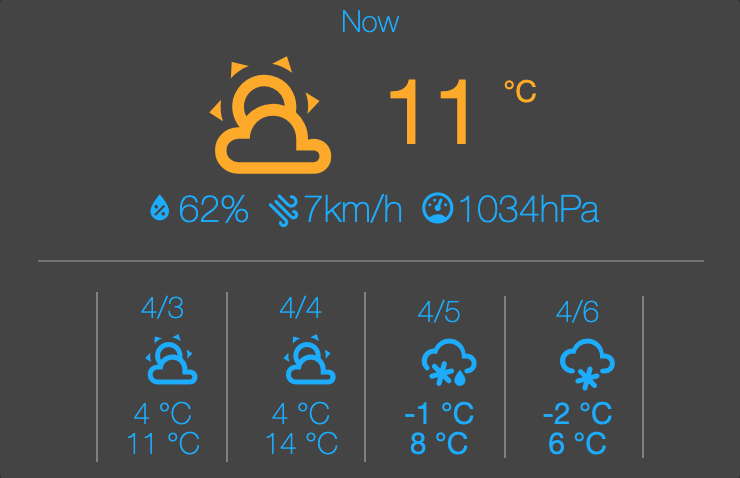
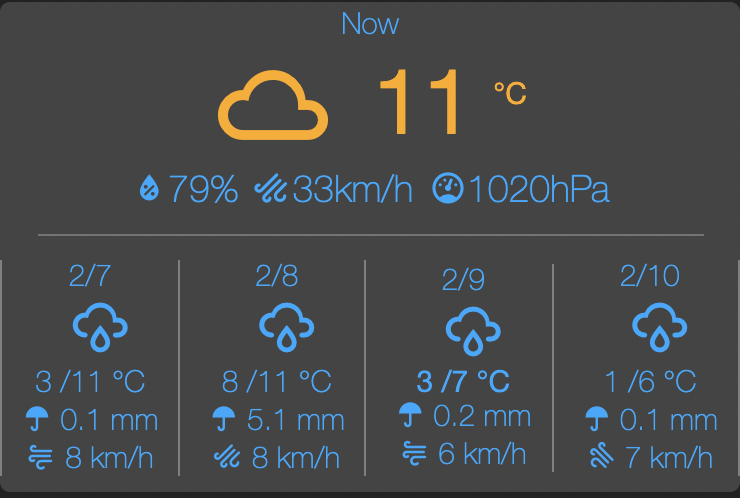
Add precip unit, optionally proba, fix cosmetic issues and add wind info to forecast

diff --git a/base_weatherentity/base_weatherentity.html b/base_weatherentity/base_weatherentity.html
@@ -73,6 +73,12 @@
   <span class="secondary-info" data-bind="visible: !prefer_icons()">Rain:&nbsp;</span>
   <span class="secondary-info" data-bind="text: forecast_precip_probability"></span>
 </p>
+<p class="secondary-detail" data-bind="visible: forecast_wind_speed">
+  <span class="secondary-icon mdi mdi-weather-windy" data-bind="visible: prefer_icons, css: forecast_bearing_icon, attr: {title: forecast_wind_bearing() + '&deg;'}"></span>
+  <span class="secondary-info" data-bind="visible: !prefer_icons()">Wind:&nbsp;</span>
+  <span class="secondary-info" data-bind="text: forecast_wind_speed"></span>
+   <span class="secondary-unit" data-bind="text: wind_unit, attr: {style: sub_unit_style}"></span>
+</p>  
 </div>
 
 <!-- Column forecast if several to show. not sure if we can have that dynamically in appdaemon -->
@@ -87,16 +93,22 @@
       </div>
       <div class="vertical-detail vertical-detail-text" data-bind="visible: forecast_temperature_min">
         <span class="secondary-info" data-bind="text: forecast_temperature_min"></span>
+        <span class="secondary-info" data-bind="visible: forecast_temperature_max">
+          /<span class="secondary-info" data-bind="text: forecast_temperature_max"></span>
+        </span>
         <span class="secondary-info" data-bind="html: unit, attr: {style: sub_unit_style}"></span>
-        <div class="secondary-info" data-bind="visible: forecast_temperature_max">
-          <span class="secondary-info" data-bind="text: forecast_temperature_max"></span>
-          <span class="secondary-info" data-bind="html: unit, attr: {style: sub_unit_style}"></span>
-        </div>
       </div>
-      <div class="vertical-detail" data-bind="visible: forecast_precip_probability">
+      <div class="vertical-detail vertical-detail-text" data-bind="visible: forecast_precip_probability">
         <span class="secondary-icon mdi" title="Rain" data-bind="visible: prefer_icons, css: forecast_precip_type_icon"></span>
         <span class="secondary-info" data-bind="visible: !prefer_icons()">Rain:&nbsp;</span>
         <span class="secondary-info" data-bind="text: forecast_precip_probability"></span>
+        <span class="secondary-info" data-bind="html: forecast_precip_unit, attr: {style: sub_unit_style}">mm</span>
+      </div>
+      <div class="vertical-detail vertical-detail-text" data-bind="visible: forecast_wind_speed">
+        <span class="secondary-icon mdi mdi-weather-windy" data-bind="visible: prefer_icons, css: forecast_bearing_icon, attr: {title: forecast_wind_bearing() + '&deg;'}"></span>
+        <span class="secondary-info" data-bind="visible: !prefer_icons()">Wind:&nbsp;</span>
+        <span class="secondary-info" data-bind="text: forecast_wind_speed"></span>
+        <span class="secondary-unit" data-bind="text: wind_unit, attr: {style: sub_unit_style}"></span>
       </div>
     </div>
   </div>
@@ -110,17 +122,23 @@
       </div>
       <div class="vertical-detail vertical-detail-text" data-bind="visible: forecast_temperature_min2">
         <span class="secondary-info" data-bind="text: forecast_temperature_min2"></span>
+        <span class="secondary-info" data-bind="visible: forecast_temperature_max2">
+          /<span class="secondary-info" data-bind="text: forecast_temperature_max2"></span>
+        </span>
         <span class="secondary-info" data-bind="html: unit, attr: {style: sub_unit_style}"></span>
-        <div class="secondary-info" data-bind="visible: forecast_temperature_max2">
-          <span class="secondary-info" data-bind="text: forecast_temperature_max2"></span>
-          <span class="secondary-info" data-bind="html: unit, attr: {style: sub_unit_style}"></span>
-        </div>
       </div>
-      <div class="vertical-detail" data-bind="visible: forecast_precip_probability2">
+      <div class="vertical-detail vertical-detail-text" data-bind="visible: forecast_precip_probability2">
         <span class="secondary-icon mdi" title="Rain" data-bind="visible: prefer_icons, css: forecast_precip_type_icon"></span>
         <span class="secondary-info" data-bind="visible: !prefer_icons()">Rain:&nbsp;</span>
         <span class="secondary-info" data-bind="text: forecast_precip_probability2"></span>
+        <span class="secondary-info" data-bind="html: forecast_precip_unit, attr: {style: sub_unit_style}">mm</span>
       </div>
+      <div class="vertical-detail vertical-detail-text" data-bind="visible: forecast_wind_speed2">
+        <span class="secondary-icon mdi mdi-weather-windy" data-bind="visible: prefer_icons, css: forecast_bearing_icon2, attr: {title: forecast_wind_bearing2 + '&deg;'}"></span>
+        <span class="secondary-info" data-bind="visible: !prefer_icons()">Wind:&nbsp;</span>
+        <span class="secondary-info" data-bind="text: forecast_wind_speed2"></span>
+        <span class="secondary-unit" data-bind="text: wind_unit, attr: {style: sub_unit_style}"></span>
+      </div>  
     </div>
   </div>
   <div class="vertical-forecast">
@@ -133,16 +151,22 @@
       </div>
       <div class="vertical-detaili vertical-detail-text" data-bind="visible: forecast_temperature_min3">
         <span class="secondary-info" data-bind="text: forecast_temperature_min3"></span>
+        <span class="secondary-info" data-bind="visible: forecast_temperature_max3">
+          /<span class="secondary-info" data-bind="text: forecast_temperature_max3"></span>
+        </span>
         <span class="secondary-info" data-bind="html: unit, attr: {style: sub_unit_style}"></span>
-        <div class="secondary-info" data-bind="visible: forecast_temperature_max3">
-          <span class="secondary-info" data-bind="text: forecast_temperature_max3"></span>
-          <span class="secondary-info" data-bind="html: unit, attr: {style: sub_unit_style}"></span>
-        </div>
       </div>
-      <div class="vertical-detail" data-bind="visible: forecast_precip_probability3">
+      <div class="vertical-detail vertical-detail-text" data-bind="visible: forecast_precip_probability3">
         <span class="secondary-icon mdi" title="Rain" data-bind="visible: prefer_icons, css: forecast_precip_type_icon"></span>
         <span class="secondary-info" data-bind="visible: !prefer_icons()">Rain:&nbsp;</span>
         <span class="secondary-info" data-bind="text: forecast_precip_probability3"></span>
+        <span class="secondary-info" data-bind="html: forecast_precip_unit, attr: {style: sub_unit_style}">mm</span>
+      </div>
+      <div class="vertical-detail vertical-detail-text" data-bind="visible: forecast_wind_speed3">
+        <span class="secondary-icon mdi mdi-weather-windy" data-bind="visible: prefer_icons, css: forecast_bearing_icon3, attr: {title: forecast_wind_bearing3 + '&deg;'}"></span>
+        <span class="secondary-info" data-bind="visible: !prefer_icons()">Wind:&nbsp;</span>
+        <span class="secondary-info" data-bind="text: forecast_wind_speed3"></span>
+        <span class="secondary-unit" data-bind="text: wind_unit, attr: {style: sub_unit_style}"></span>
       </div>
     </div>
   </div>
@@ -154,18 +178,24 @@
       <div class="vertical-detail" data-bind="visible: forecast_temperature_min4">
         <span class="secondary-climacon" data-bind="css: forecast_icon4"></span>
       </div>
-      <div class="vertical-detaili vertical-detail-text" data-bind="visible: forecast_temperature_min4">
+      <div class="vertical-detail vertical-detail-text" data-bind="visible: forecast_temperature_min4">
         <span class="secondary-info" data-bind="text: forecast_temperature_min4"></span>
+        <span class="secondary-info" data-bind="visible: forecast_temperature_max4">
+          /<span class="secondary-info" data-bind="text: forecast_temperature_max4"></span>
+        </span>
         <span class="secondary-info" data-bind="html: unit, attr: {style: sub_unit_style}"></span>
-        <div class="secondary-info" data-bind="visible: forecast_temperature_max4">
-          <span class="secondary-info" data-bind="text: forecast_temperature_max4"></span>
-          <span class="secondary-info" data-bind="html: unit, attr: {style: sub_unit_style}"></span>
-        </div>
       </div>
-      <div class="vertical-detail" data-bind="visible: forecast_precip_probability4">
+      <div class="vertical-detail vertical-detail-text" data-bind="visible: forecast_precip_probability4">
         <span class="secondary-icon mdi" title="Rain" data-bind="visible: prefer_icons, css: forecast_precip_type_icon"></span>
         <span class="secondary-info" data-bind="visible: !prefer_icons()">Rain:&nbsp;</span>
         <span class="secondary-info" data-bind="text: forecast_precip_probability4"></span>
+        <span class="secondary-info" data-bind="html: forecast_precip_unit, attr: {style: sub_unit_style}">mm</span>
+      </div>
+      <div class="vertical-detail vertical-detail-text" data-bind="visible: forecast_wind_speed4">
+        <span class="secondary-icon mdi mdi-weather-windy" data-bind="visible: prefer_icons, css: forecast_bearing_icon4, attr: {title: forecast_wind_bearing4 + '&deg;'}"></span>
+        <span class="secondary-info" data-bind="visible: !prefer_icons()">Wind:&nbsp;</span>
+        <span class="secondary-info" data-bind="text: forecast_wind_speed4"></span>
+        <span class="secondary-unit" data-bind="text: wind_unit, attr: {style: sub_unit_style}"></span>
       </div>
     </div>
   </div></div>

diff --git a/base_weatherentity/base_weatherentity.js b/base_weatherentity/base_weatherentity.js
@@ -216,7 +216,12 @@ function base_weatherentity(widget_id, url, skin, parameters)
                 forecast = state.attributes.forecast[idx];
                 evt_datetime = new Date(forecast.datetime);
                 self.set_field(self, "forecast_icon"+attr_suffix, get_weather_icon(forecast.condition));
-                self.set_field(self, "forecast_precip_probability"+attr_suffix, forecast.precipitation.toFixed(2));
+                if (self.parameters.forecast_precip_unit == "%") { precip = forecast.precipitation_probability.toFixed(0); }
+                else { precip = forecast.precipitation.toFixed(1); }
+                self.set_field(self, "forecast_precip_probability"+attr_suffix, precip);
+                self.set_field(self, "forecast_wind_speed"+attr_suffix, self.format_number(self, forecast.wind_speed));
+                self.set_field(self, "forecast_bearing_icon"+attr_suffix, "mdi-rotate-" + compute_icon_rotation(forecast.wind_bearing));
+                self.set_field(self, "forecast_wind_bearing"+attr_suffix, self.format_number(self, forecast.wind_bearing));
 
                 if (self.daily_mode)
                 {

diff --git a/base_weatherentity/base_weatherentity.css b/base_weatherentity/base_weatherentity.css
@@ -18,7 +18,7 @@
 
 .widget-base_weatherentity-{{id}} .primary-climacon {
     font-family: "Climacons-Font";
-    font-size: 70px;
+    font-size: 60px;
 }
 
 .widget-base_weatherentity-{{id}} .primary-info {
@@ -54,7 +54,7 @@
 .widget-base_weatherentity-{{id}} .vertical-forecast {
     display: inline-block;
     vertical-align: middle;
-    padding: 0px 8px;
+    padding: 0px 6px;
     margin-bottom:5px;
     border-right: 1px solid grey;
 }
@@ -122,6 +122,6 @@
     border: 0;
     height: 1px;
     background: rgba(255, 255, 255, 0.25);
-    margin-top: 15px;
-    margin-bottom: 15px;
+    margin-top: 12px;
+    margin-bottom: 12px;
 }

diff --git a/README.md b/README.md
@@ -10,10 +10,13 @@ This is fully compliant with the official base widget, so any working configurat
 **Note: For 2x2 widget, only 1 forecast should be used with a 120x120 widget. Up to four can be used in 3x2.**
 
 #### 3x2 widget with 4 forecasts in hourly mode
-<img src="https://github.com/vche/appdaemon_weatherentity/blob/master/etc/3x2.png" width="360">
+<img src="https://github.com/vche/appdaemon_weatherentity/blob/master/etc/3x2_hourly.png" width="360">
 
 #### 3x2 widget with 4 forecasts in daily mode
 <img src="https://github.com/vche/appdaemon_weatherentity/blob/master/etc/3x2_daily.png" width="360">
+
+#### 3x2 widget with 4 forecasts and precipitations probability
+<img src="https://github.com/vche/appdaemon_weatherentity/blob/master/etc/3x2_proba.png" width="360">
 
 #### 2x2 widget with 1 forecasts
 <img src="https://github.com/vche/appdaemon_weatherentity/blob/master/etc/2x2.png" width="240">
@@ -22,8 +25,9 @@ This is fully compliant with the official base widget, so any working configurat
 
 The configuration is almost identical to the official daemon, with the following differences:
 - ```entity```: Can be specified in place of ```entities``` to use a weather entities instead of a sensor list
-- ```show_forecast``` can be set to the number of forecasts to displqy (up to 4, 0 = no forecast)
-- ```forecast_daily``` can e set to enable hourly or daily forecast. Default to daily.
+- ```show_forecast``` can be set to the number of forecasts to display (up to 4, 0 = no forecast)
+- ```forecast_daily``` can e set to enable hourly or daily forecast. Defaults to daily.
+- ```forecast_precip_unit``` to specify the precipitation unit for accumulated precip,: "mm" for metric system or "in" for imperial. This only changes the displayed text, the value is configured in homehassistant. If set to "%" the precipitation probability will be displayed instead.
 
 ## Example configuration
 
@@ -40,6 +44,7 @@ openweathermap:
   wind_unit: "km/h"
   pressure_unit: "hPa"
   rain_unit: "%"
+  forecast_precip_unit: "mm"
 
 layout:
     - label(2x2),openweathermap(3x2)
